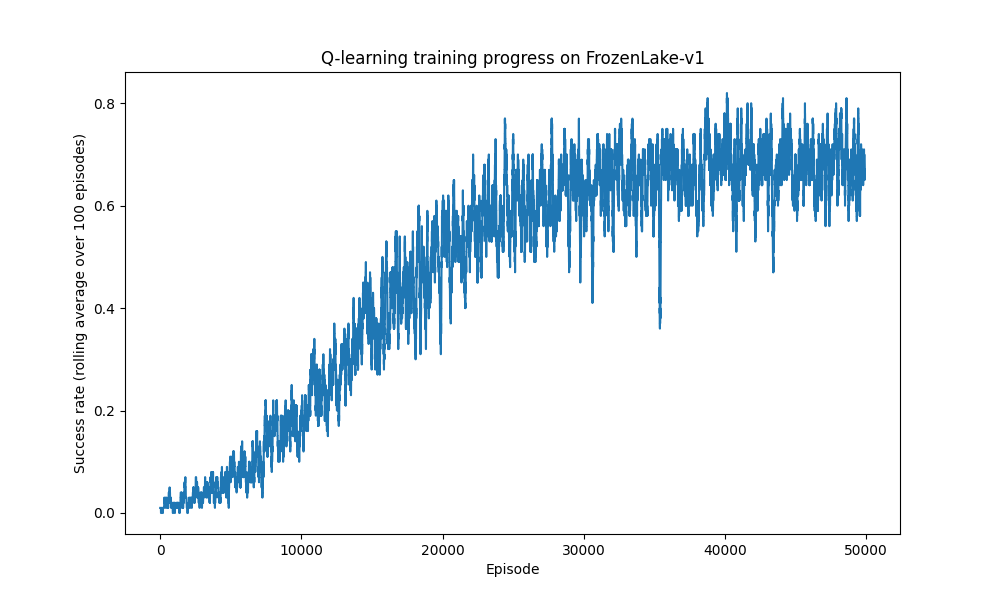
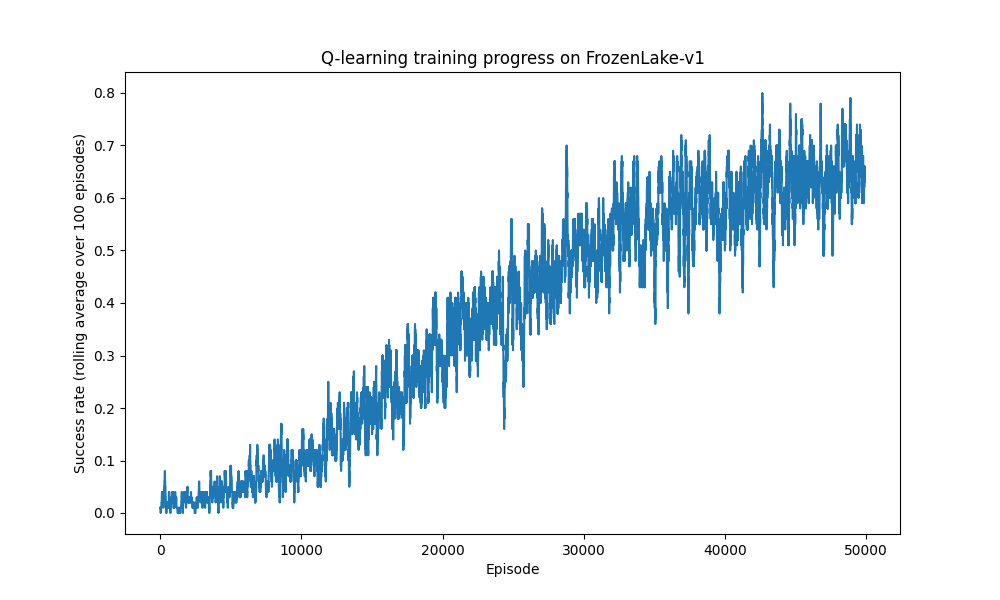
tune hyperparameters for better success rate

diff --git a/sweep.py b/sweep.py
@@ -1,0 +1,179 @@
+import time
+import numpy as np
+import gymnasium as gym
+
+env_name = "FrozenLake-v1"
+map_name = "4x4"
+is_slippery = True
+max_steps_per_episode = 100
+num_eval_episodes = 1000
+
+env = gym.make(env_name, map_name=map_name, is_slippery=is_slippery)
+num_states = env.observation_space.n
+num_actions = env.action_space.n
+
+
+def make_learning_rate_fn(learning_rate):
+    if learning_rate == "decay":
+        start_lr = 0.1
+        end_lr = 0.01
+
+        def learning_rate_fn(episode, num_episodes):
+            return start_lr - (start_lr - end_lr) * episode / num_episodes
+
+        return learning_rate_fn, "decay(0.1->0.01)"
+
+    def learning_rate_fn(episode, num_episodes):
+        return learning_rate
+
+    return learning_rate_fn, str(learning_rate)
+
+
+def train_q_table(num_episodes, gamma, epsilon_decay, epsilon_min, learning_rate):
+    learning_rate_fn, _ = make_learning_rate_fn(learning_rate)
+    q_table = np.zeros((num_states, num_actions))
+    epsilon = 1.0
+
+    for episode in range(num_episodes):
+        state, info = env.reset()
+        current_lr = learning_rate_fn(episode, num_episodes)
+
+        for step in range(max_steps_per_episode):
+            if np.random.uniform(0, 1) < epsilon:
+                action = env.action_space.sample()
+            else:
+                action = np.argmax(q_table[state, :])
+
+            next_state, reward, terminated, truncated, info = env.step(action)
+            best_next_value = np.max(q_table[next_state, :])
+            q_table[state, action] += current_lr * (
+                reward + gamma * best_next_value - q_table[state, action]
+            )
+            state = next_state
+
+            if terminated or truncated:
+                break
+
+        epsilon = epsilon_min + (1.0 - epsilon_min) * np.exp(-epsilon_decay * episode)
+
+    return q_table
+
+
+def evaluate_q_table(q_table):
+    success_count = 0
+    step_counts = []
+
+    for episode in range(num_eval_episodes):
+        state, info = env.reset()
+        for step in range(max_steps_per_episode):
+            action = np.argmax(q_table[state, :])
+            state, reward, terminated, truncated, info = env.step(action)
+            if terminated or truncated:
+                if reward == 1:
+                    success_count += 1
+                step_counts.append(step + 1)
+                break
+
+    success_rate = success_count / num_eval_episodes * 100
+    average_steps = np.mean(step_counts)
+    return success_rate, average_steps
+
+
+def run_combo(num_episodes, gamma, epsilon_decay, epsilon_min, learning_rate):
+    _, lr_label = make_learning_rate_fn(learning_rate)
+    start_time = time.time()
+    q_table = train_q_table(num_episodes, gamma, epsilon_decay, epsilon_min, learning_rate)
+    success_rate, average_steps = evaluate_q_table(q_table)
+    elapsed = time.time() - start_time
+
+    result = {
+        "episodes": num_episodes,
+        "learning_rate": lr_label,
+        "learning_rate_value": learning_rate,
+        "gamma": gamma,
+        "epsilon_decay": epsilon_decay,
+        "epsilon_min": epsilon_min,
+        "success_rate": success_rate,
+        "average_steps": average_steps,
+    }
+
+    print(
+        f"episodes={num_episodes:<7} lr={lr_label:<16} gamma={gamma:<5} "
+        f"eps_decay={epsilon_decay:<9} -> success={success_rate:5.1f}% "
+        f"avg_steps={average_steps:5.1f} ({elapsed:.1f}s)"
+    )
+
+    return result, q_table
+
+
+results = []
+best_q_tables = {}
+
+print("stage 1: screening gamma and epsilon_decay at 50000 episodes, lr=0.1")
+stage1_combos = [
+    (0.99, 0.00008),
+    (0.99, 0.0001),
+    (0.99, 0.00015),
+    (0.95, 0.00008),
+    (0.95, 0.0001),
+    (0.95, 0.00015),
+    (0.9, 0.00008),
+    (0.9, 0.0001),
+    (0.9, 0.00015),
+]
+
+for gamma, epsilon_decay in stage1_combos:
+    result, q_table = run_combo(50000, gamma, epsilon_decay, 0.01, 0.1)
+    results.append(result)
+    best_q_tables[len(results) - 1] = q_table
+
+stage1_sorted = sorted(results, key=lambda r: r["success_rate"], reverse=True)
+top_two_stage1 = stage1_sorted[:2]
+
+print()
+print("stage 2: trying alternate learning rates on the top 2 stage 1 combos")
+for top_result in top_two_stage1:
+    gamma = top_result["gamma"]
+    epsilon_decay = top_result["epsilon_decay"]
+
+    for learning_rate in [0.05, "decay"]:
+        result, q_table = run_combo(50000, gamma, epsilon_decay, 0.01, learning_rate)
+        results.append(result)
+        best_q_tables[len(results) - 1] = q_table
+
+stage1_and_2_sorted = sorted(results, key=lambda r: r["success_rate"], reverse=True)
+top_two_overall = stage1_and_2_sorted[:2]
+
+print()
+print("stage 3: retesting the top 2 combos with 100000 episodes")
+for top_result in top_two_overall:
+    result, q_table = run_combo(
+        100000,
+        top_result["gamma"],
+        top_result["epsilon_decay"],
+        top_result["epsilon_min"],
+        top_result["learning_rate_value"],
+    )
+    results.append(result)
+    best_q_tables[len(results) - 1] = q_table
+
+final_sorted = sorted(range(len(results)), key=lambda i: results[i]["success_rate"], reverse=True)
+
+print()
+print("summary of all combinations tested, sorted by success rate")
+print(f"{'episodes':<10}{'lr':<18}{'gamma':<8}{'eps_decay':<12}{'success_rate':<14}{'avg_steps':<10}")
+for i in final_sorted:
+    r = results[i]
+    print(
+        f"{r['episodes']:<10}{r['learning_rate']:<18}{r['gamma']:<8}"
+        f"{r['epsilon_decay']:<12}{r['success_rate']:<14.1f}{r['average_steps']:<10.1f}"
+    )
+
+best_index = final_sorted[0]
+best_result = results[best_index]
+
+print()
+print("best combination found:")
+print(best_result)
+
+env.close()

diff --git a/evaluate.py b/evaluate.py
@@ -5,7 +5,7 @@ env_name = "FrozenLake-v1"
 map_name = "4x4"
 is_slippery = True
 
-num_eval_episodes = 100
+num_eval_episodes = 1000
 max_steps_per_episode = 100
 
 env = gym.make(env_name, map_name=map_name, is_slippery=is_slippery)

diff --git a/train.py b/train.py
@@ -14,7 +14,7 @@ discount_rate = 0.99
 epsilon = 1.0
 max_epsilon = 1.0
 min_epsilon = 0.01
-epsilon_decay_rate = 0.00015
+epsilon_decay_rate = 0.0001
 
 env = gym.make(env_name, map_name=map_name, is_slippery=is_slippery)
 

diff --git a/README.md b/README.md
@@ -41,6 +41,7 @@ This project trains on the slippery version of the map. It is the harder, more r
 - `evaluate.py` loads the saved Q-table and reports success rate and average steps, compared against a random policy baseline
 - `demo.py` renders the trained agent solving the environment and saves the result as `demo.gif`
 - `plot_training.py` plots the training curve from the saved reward history and saves `training_curve.png`
+- `sweep.py` the script I used to try out different hyperparameter combinations, not needed to reproduce the final results
 
 ## Installation
 
@@ -80,14 +81,18 @@ Generate a GIF of the trained agent solving the environment:
 python3 demo.py
 ```
 
+## Hyperparameter Tuning
+
+After getting a working baseline, I wrote a small `sweep.py` script to try out different combinations of episodes, learning rate, discount factor (gamma), and epsilon decay, evaluating each one over 1000 greedy episodes instead of 100 so the success rate numbers weren't just noise. Gamma mattered the most out of everything I tried: dropping it from 0.99 to 0.95 or 0.9 consistently hurt performance, since a lower gamma makes the agent care less about the reward at the goal, which is far away in terms of steps. The best combination I found was 50,000 episodes, learning rate 0.1, gamma 0.99, and a slightly slower epsilon decay rate of 0.0001 (compared to 0.00015 in my first version), and I updated `train.py` to use these settings. `sweep.py` is left in the repo as the script I used to do this, it's not part of the main pipeline.
+
 ## Results
 
-Evaluated over 100 episodes with a greedy policy (no exploration), compared to 100 episodes of a random policy baseline:
+Evaluated over 1000 episodes with a greedy policy (no exploration), compared to 1000 episodes of a random policy baseline. I bumped this up from 100 episodes in an earlier version since 100 episodes was giving noisy success rate estimates during tuning:
 
 | Policy | Success Rate | Average Steps |
 |---|---|---|
-| Random (before training) | 2.0% | 7.0 |
-| Trained Q-learning agent (after training) | 79.0% | 43.8 |
+| Random (before training) | 1.4% | 7.5 |
+| Trained Q-learning agent (after training) | 73.8% | 45.5 |
 
 The random policy almost always falls into a hole quickly. The trained agent reaches the goal in the large majority of episodes, and takes longer paths on average because it favors safer routes around holes rather than the shortest path, which matters on slippery ice where a shorter but riskier path is more likely to end in a fall.
 